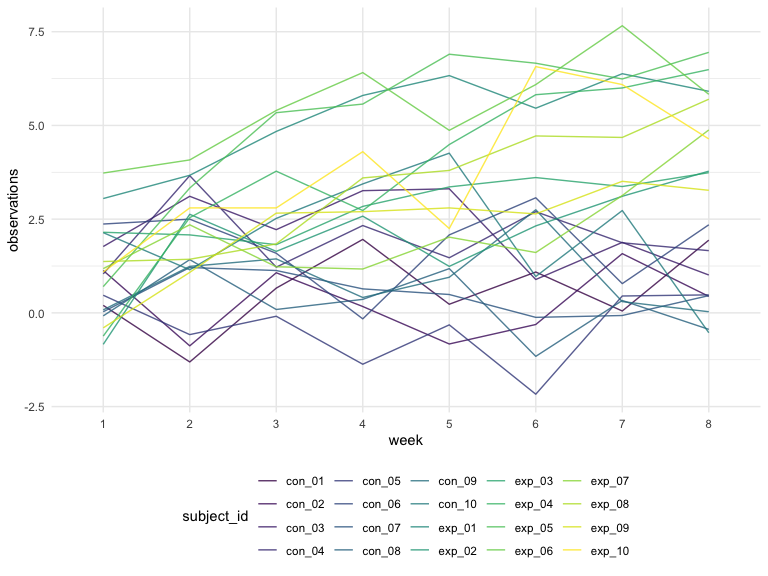
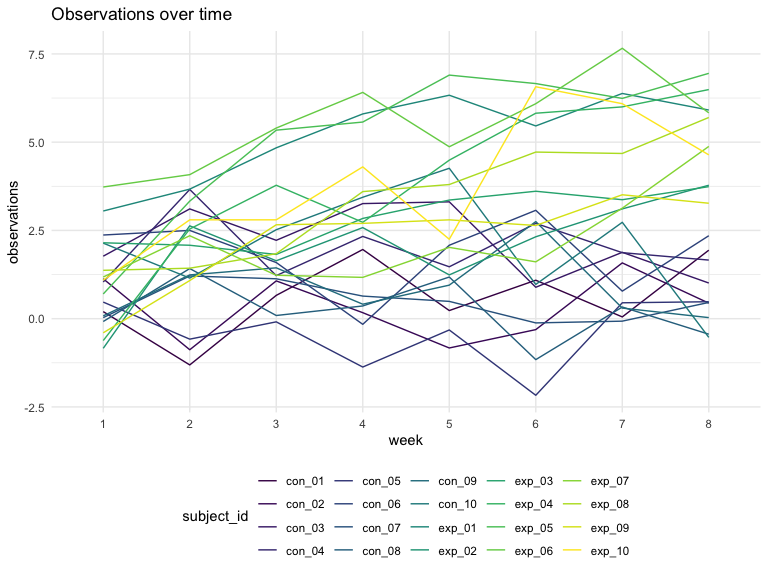
problem 3

diff --git a/p8105_hw5_yl4607.md b/p8105_hw5_yl4607.md
@@ -1,7 +1,7 @@
 Homework 5
 ================
 Yue Liu
-2020-11-14
+2020-11-18
 
 ## Problem 1
 
@@ -166,9 +166,124 @@ path_df =
 ``` r
 path_df %>% 
   ggplot(aes(x = week , y = observations, group = subject_id, color = subject_id)) +
-  geom_line(alpha = .8)
+  geom_line() +
+  labs(title = "Observations over time") 
 ```
 
 <img src="p8105_hw5_yl4607_files/figure-gfm/unnamed-chunk-9-1.png" width="90%" />
 
+From the plot we see that while the observations for the experiment
+group increases with time, the observations for control group stays
+relatively stable.
+
 ## Problem 3
+
+``` r
+set.seed(1)
+
+simulation_df =
+  tibble(mu = c(0:6)) %>%
+  mutate(
+    input_lists = map(.x = mu, ~rerun(5000, rnorm(30, mean = .x, sd = 5)))) %>% 
+  unnest(input_lists) %>% 
+    mutate(t_tests = map(.x = input_lists, ~ t.test(.x)),
+           tidy_tests = map(.x = t_tests, ~broom::tidy(.x))) %>% 
+  unnest(tidy_tests) %>% 
+  janitor::clean_names() %>% 
+  select(mu, estimate, p_value)
+```
+
+From the plot below we can see that the power increases as the effect
+size increases.
+
+``` r
+graph_df =
+  simulation_df  %>% 
+  group_by(mu) %>% 
+  mutate(
+    decision = case_when(
+      p_value < 0.05 ~ "reject",
+      p_value  >= 0.05 ~"fail to reject"
+    ))
+
+graph_df %>% 
+  filter(decision == "reject") %>% 
+  summarize(power = n()/5000) %>% 
+  ggplot(aes(x = mu, y = power, fill = mu)) +
+  geom_bar(stat = "identity") +
+  scale_x_continuous(breaks = c(0:6)) 
+```
+
+    ## `summarise()` ungrouping output (override with `.groups` argument)
+
+<img src="p8105_hw5_yl4607_files/figure-gfm/unnamed-chunk-11-1.png" width="90%" />
+
+``` r
+p1 = 
+  graph_df %>% 
+  group_by(mu) %>% 
+  summarize(
+    avg_estimate = mean(estimate)
+  ) %>% 
+  ggplot(aes(x = mu, y = avg_estimate)) +
+  geom_line() + 
+  geom_point() +
+  scale_x_continuous(breaks = c(0:6)) +
+  scale_y_continuous(breaks = c(0:7)) 
+```
+
+    ## `summarise()` ungrouping output (override with `.groups` argument)
+
+``` r
+p2 =
+  graph_df %>% 
+  group_by(mu) %>% 
+  filter(decision == "reject") %>% 
+  summarize(
+    avg_rej_estimate = mean(estimate)
+  ) %>% 
+  ggplot(aes(x = mu, y = avg_rej_estimate)) +
+  geom_line() + 
+  geom_point() +
+  scale_x_continuous(breaks = c(0:6)) +
+  scale_y_continuous(breaks = c(0:7)) 
+```
+
+    ## `summarise()` ungrouping output (override with `.groups` argument)
+
+``` r
+ggplot() +
+  geom_point( 
+    data = graph_df %>% 
+      group_by(mu) %>% 
+      summarize(avg_estimate = mean(estimate)),
+    aes(x = mu, y = avg_estimate, color = "average estimate of mu")
+    ) +
+  geom_point() + 
+  geom_path(
+    data = graph_df %>% 
+      group_by(mu) %>% 
+      summarize(avg_estimate = mean(estimate)),
+    aes(x = mu, y = avg_estimate, color = "average estimate of mu")
+  ) +
+  geom_path(
+    data = graph_df %>% 
+      group_by(mu) %>% 
+      filter(decision == "reject") %>% 
+      summarize(avg_rej_estimate = mean(estimate)),
+  aes(x = mu, y = avg_rej_estimate, color = "average estimate of mu with null rejected")
+  ) + 
+  scale_x_continuous(n.breaks = 7)
+```
+
+    ## `summarise()` ungrouping output (override with `.groups` argument)
+    ## `summarise()` ungrouping output (override with `.groups` argument)
+    ## `summarise()` ungrouping output (override with `.groups` argument)
+
+<img src="p8105_hw5_yl4607_files/figure-gfm/unnamed-chunk-13-1.png" width="90%" />
+
+From the plot we can see that the sample average of estimated mu across
+test for which the null is rejected is approximately equal to the true
+value of mu when mu equals 0, 4, 5, 6. However, the sample average of
+estimated mu across test for which the null is rejected deviated
+greathly from the true value of mu when mu equals 1, 2, and 3.
